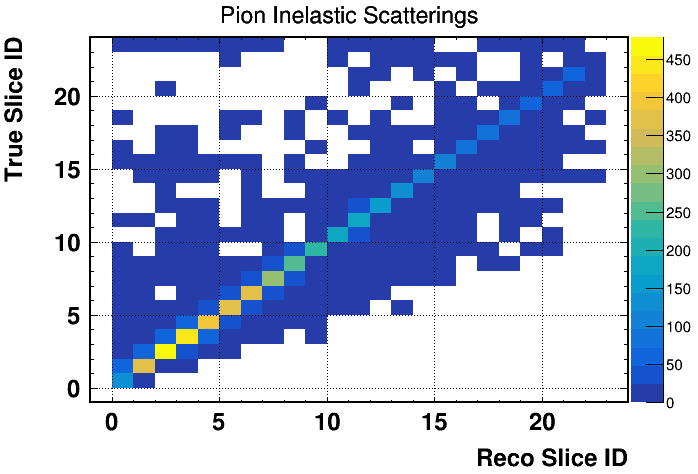
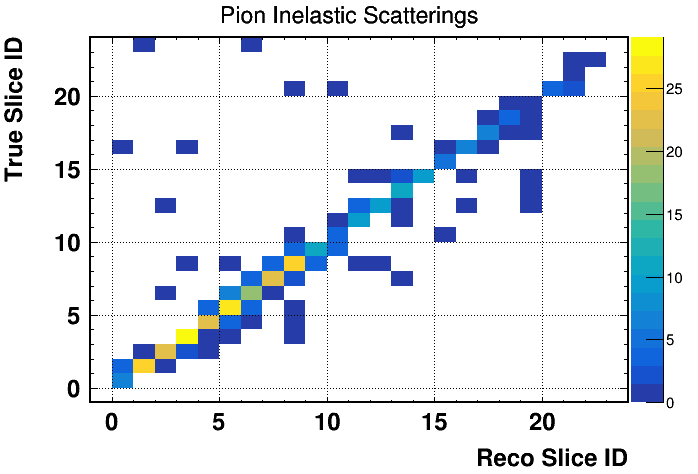
Use prod4a.

diff --git a/macros/ploteffpur.C b/macros/ploteffpur.C
@@ -1,7 +1,7 @@
 {
   gStyle->SetOptStat(0);
 
-  TFile *file = TFile::Open("../install/bin/mcprod4.root");
+  TFile *file = TFile::Open("../install/bin/mcprod4a.root");
 
   TH1D *eff_num_Int = (TH1D*)file->Get("eff_num_Int");
   TH1D *eff_den_Int = (TH1D*)file->Get("eff_den_Int");

diff --git a/macros/makeXS.C b/macros/makeXS.C
@@ -4,7 +4,7 @@
 
   gStyle->SetOptStat(0);
 
-  TFile *file = TFile::Open("../install/bin/mcprod4.root");
+  TFile *file = TFile::Open("../install/bin/mcprod4a.root");
 
   TH1D *eff_num_Int = (TH1D*)file->Get("eff_num_Int");
   TH1D *eff_den_Int = (TH1D*)file->Get("eff_den_Int");

diff --git a/macros/plot.C b/macros/plot.C
@@ -68,7 +68,7 @@ void plot(){
 
   gStyle->SetOptStat(0);
 
-  f = TFile::Open("../install/bin/mcprod4.root");
+  f = TFile::Open("../install/bin/mcprod4a.root");
 
   for (int i = 0; i<nCuts; ++i){
     plot1d("hmediandEdx", i, "Median dE/dx (MeV/cm)", "Events");
